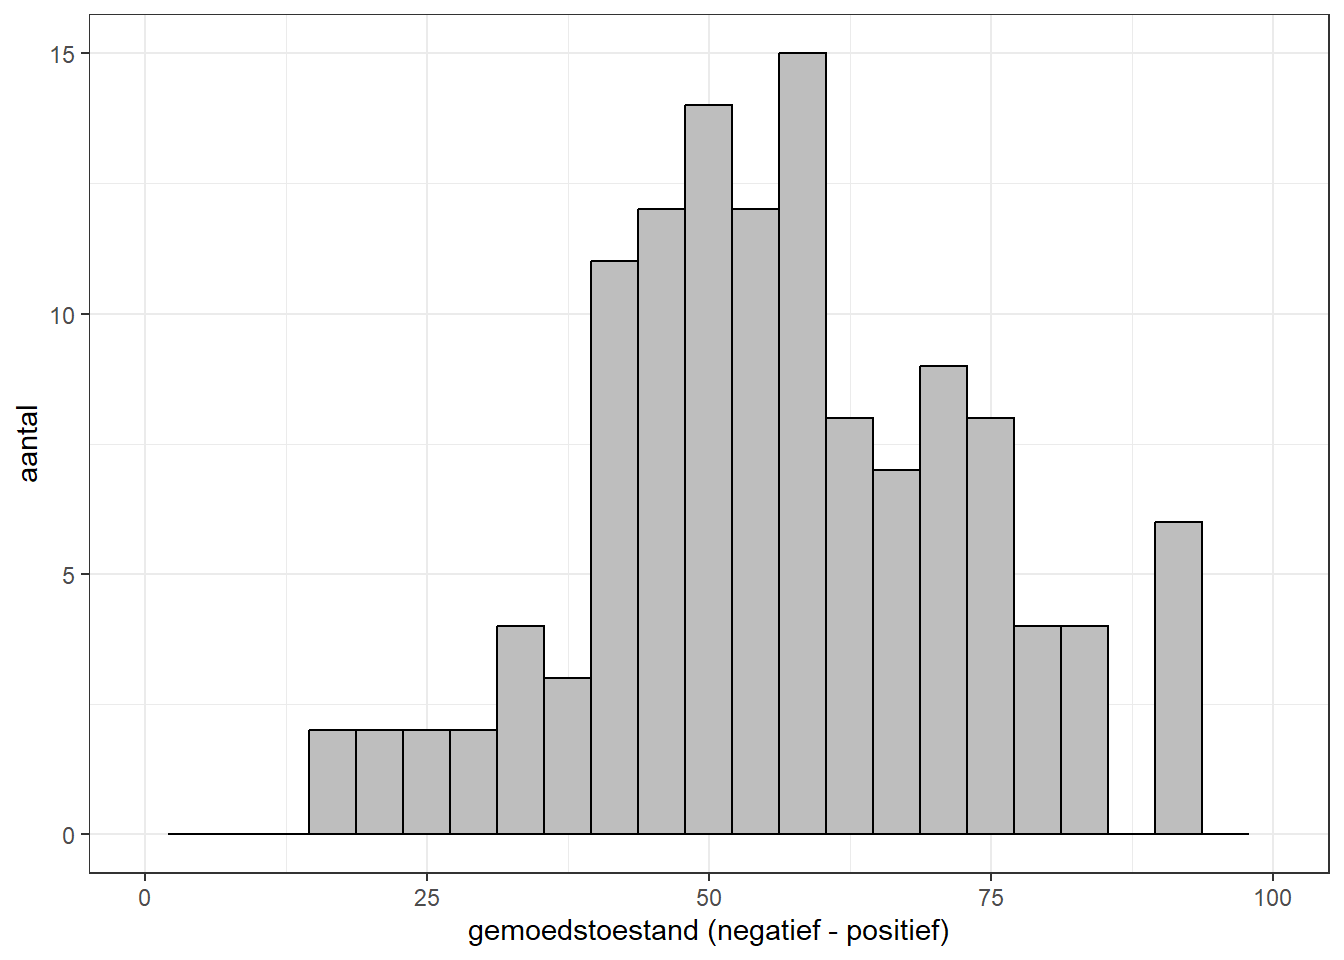
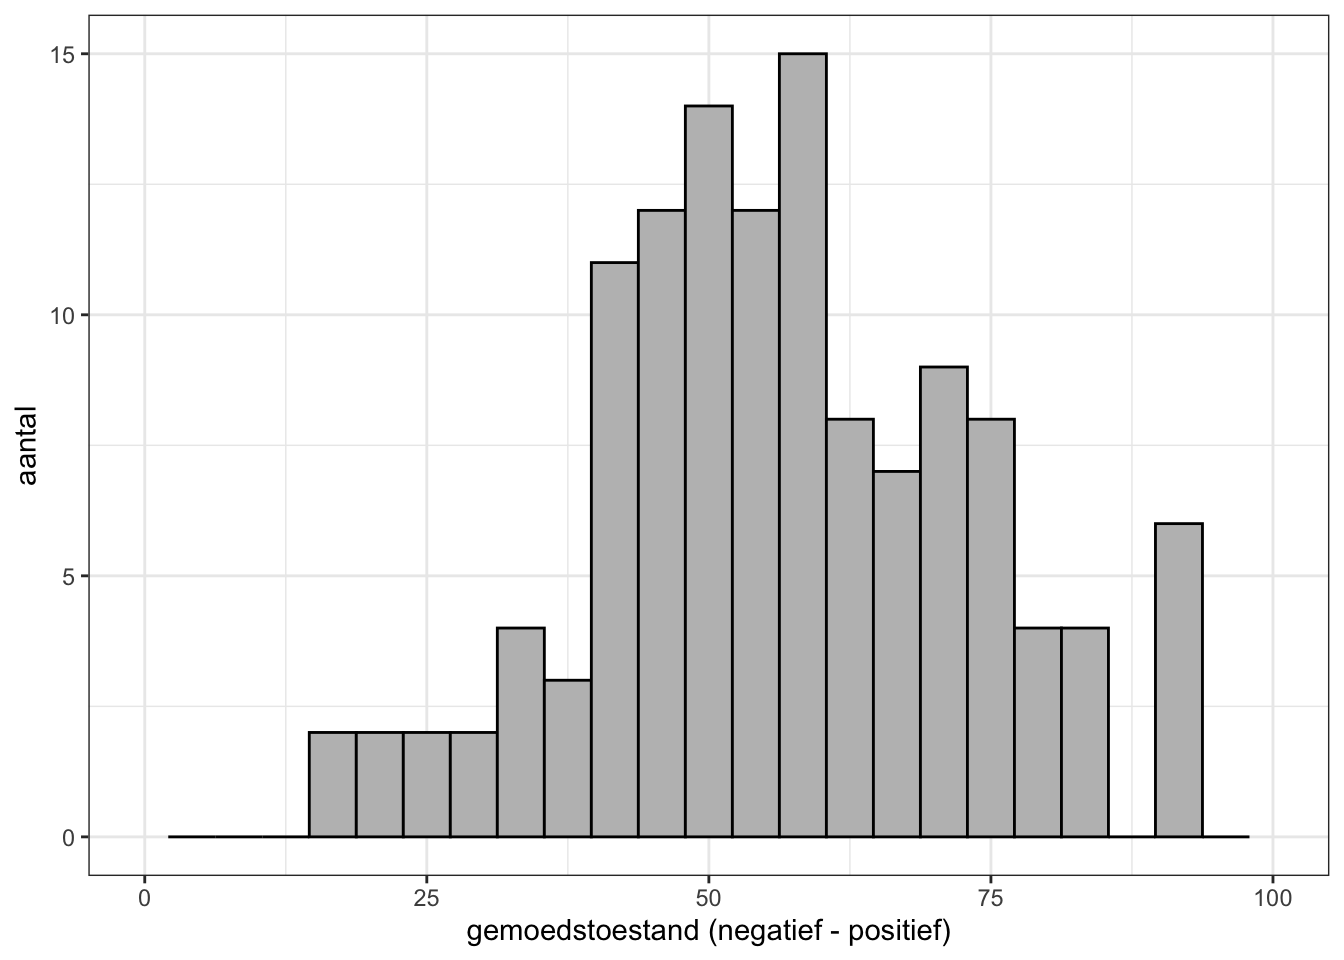
update centrum en spreiding

diff --git a/docs/002-03-centrum-en-spreidingsmaten.html b/docs/002-03-centrum-en-spreidingsmaten.html
@@ -84,9 +84,9 @@ pre > code.sourceCode > span > a:first-child::before { text-decoration: underlin
 <link href="site_libs/quarto-html/quarto-syntax-highlighting-64a204ab8560d761af7679ceaba22944.css" rel="stylesheet" class="quarto-color-scheme-extra" id="quarto-text-highlighting-styles">
 <script src="site_libs/bootstrap/bootstrap.min.js"></script>
 <link href="site_libs/bootstrap/bootstrap-icons.css" rel="stylesheet">
-<link href="site_libs/bootstrap/bootstrap-5ab6d3a42f965672fa09f0ec9e60cd37.min.css" rel="stylesheet" append-hash="true" class="quarto-color-scheme" id="quarto-bootstrap" data-mode="light">
-<link href="site_libs/bootstrap/bootstrap-dark-4d5af44521e8d2ac69805030d7e05dc7.min.css" rel="stylesheet" append-hash="true" class="quarto-color-scheme quarto-color-alternate" id="quarto-bootstrap" data-mode="dark">
-<link href="site_libs/bootstrap/bootstrap-5ab6d3a42f965672fa09f0ec9e60cd37.min.css" rel="stylesheet" append-hash="true" class="quarto-color-scheme-extra" id="quarto-bootstrap" data-mode="light">
+<link href="site_libs/bootstrap/bootstrap-deb916046d57902448ef8317134ba92a.min.css" rel="stylesheet" append-hash="true" class="quarto-color-scheme" id="quarto-bootstrap" data-mode="light">
+<link href="site_libs/bootstrap/bootstrap-dark-34cfa9cfa9935202557e813e66c18837.min.css" rel="stylesheet" append-hash="true" class="quarto-color-scheme quarto-color-alternate" id="quarto-bootstrap" data-mode="dark">
+<link href="site_libs/bootstrap/bootstrap-deb916046d57902448ef8317134ba92a.min.css" rel="stylesheet" append-hash="true" class="quarto-color-scheme-extra" id="quarto-bootstrap" data-mode="light">
 <script id="quarto-search-options" type="application/json">{
   "location": "sidebar",
   "copy-button": false,
@@ -633,10 +633,10 @@ window.Quarto = {
 </div>
 </section>
 </section>
-<section id="spreidingsmaten" class="level2" data-number="6.2">
+<section id="spreidingsmaten" class="level2 page-columns page-full" data-number="6.2">
 <h2 data-number="6.2" class="anchored" data-anchor-id="spreidingsmaten"><span class="header-section-number">6.2</span> Spreidingsmaten</h2>
-<p>Tekst toevoegen over belang spreiding =&gt; Joost</p>
-<section id="bereik-minimum-en-maximum" class="level3" data-number="6.2.1">
+<p>Zoals eerder aangegeven, draait statistiek voor een belangrijk deel om de analyse van variatie. We hebben een groep respondenten die over allerlei kenmerken beschikken. We kunnen tellen welke kenmerken het meest voorkomen, of wat het gemiddelde op een bepaald kenmerk is. Maar vaak zijn we als sociale wetenschappers niet zozeer geinteresseerd in dingen die algemeen zijn, maar juist in zaken die varieren. Welke groepen gebruiken welke vormen van drugs? Welke groepen gebruiken juist geen drugs? Het idee is dat variatie, bijvoorbeeld door het maken van vergelijkingen, ons iets kan leren over hoe de sociale werkelijkheid in elkaar zit.<a href="#fn1" class="footnote-ref" id="fnref1" role="doc-noteref"><sup>1</sup></a> Dat geeft ons bijvoorbeeld inzicht in welke theorie bruikbaar is om een bepaald fenomeen beter te begrijpen c.q. verklaren of om beleid te ontwikkelen dat specifiek gericht is op een bepaalde doelgroep.</p>
+<div class="no-row-height column-margin column-container"><div id="fn1"><p><sup>1</sup>&nbsp;Sterker nog, onze methodes verklaren variat(n)ie met varia(n)tie. Als er geen variatie in een bepaald kenmerk is, kan het kenmerk ook niet als verklaring verschijnen. Of stel dat onze dataset alleen variatie meet op het niveau van individuen, dan gaan onze verklaringen ook te maken met individuele aspecten. Zie bijvoorbeeld het boek van <a href="https://press.uchicago.edu/ucp/books/book/chicago/T/bo28394847.html">John Levi Martin</a>.</p></div></div><section id="bereik-minimum-en-maximum" class="level3" data-number="6.2.1">
 <h3 data-number="6.2.1" class="anchored" data-anchor-id="bereik-minimum-en-maximum"><span class="header-section-number">6.2.1</span> Bereik, minimum en maximum</h3>
 <p>Het bereik <span class="math inline">\(R\)</span> van een variabele is de afstand tussen de laagste (minimum: <span class="math inline">\(x_{min}\)</span>) en hoogste (maximum: <span class="math inline">\(x_{max}\)</span>) waarde. Dit bereken je eenvoudig door de hoogste waarde minus de laagste waarde te nemen:</p>
 <p><span class="math display">\[R=x_{max}-x_{min}\]</span></p>
@@ -944,10 +944,10 @@ s=\sqrt\frac{\sum_{i=1}^{n}{(x_i-\bar{x})^2}}{n-1}
 <pre><code>[1] -2.021429</code></pre>
 </div>
 </div>
-<p>De persoon met score 30 bevindt dus ongeveer 2 standaarddeviaties onder het gemiddelde. Zoals de normale verdeling laat zien, is dit een vrij extreme score (slechts 2,2% van de waardes ligt nog onder 2 standaarddeviaties).<a href="#fn1" class="footnote-ref" id="fnref1" role="doc-noteref"><sup>1</sup></a> Deze partyprins of -prinses voelt zich dus niet zo lekker vergeleken met de rest op de dinsdag na een wild weekend!</p>
+<p>De persoon met score 30 bevindt dus ongeveer 2 standaarddeviaties onder het gemiddelde. Zoals de normale verdeling laat zien, is dit een vrij extreme score (slechts 2,2% van de waardes ligt nog onder 2 standaarddeviaties).<a href="#fn2" class="footnote-ref" id="fnref2" role="doc-noteref"><sup>2</sup></a> Deze partyprins of -prinses voelt zich dus niet zo lekker vergeleken met de rest op de dinsdag na een wild weekend!</p>
 
 
-<div class="no-row-height column-margin column-container"><div id="fn1"><p><sup>1</sup>&nbsp;Vergelijk dit ook visueel met de verdeling van gemoed_dinsdag_na_xtc bij <a href="./002-02-meetniveaus-visualisaties.html#sec-histogram">Histogram</a>. Waar ligt score 30 t.o.v. de rest van de verdeling?</p></div></div></section>
+<div class="no-row-height column-margin column-container"><div id="fn2"><p><sup>2</sup>&nbsp;Vergelijk dit ook visueel met de verdeling van gemoed_dinsdag_na_xtc bij <a href="./002-02-meetniveaus-visualisaties.html#sec-histogram">Histogram</a>. Waar ligt score 30 t.o.v. de rest van de verdeling?</p></div></div></section>
 
 
 </main> <!-- /main -->

diff --git a/docs/004-03-afhankelijkegroepen.html b/docs/004-03-afhankelijkegroepen.html
@@ -84,9 +84,9 @@ pre > code.sourceCode > span > a:first-child::before { text-decoration: underlin
 <link href="site_libs/quarto-html/quarto-syntax-highlighting-64a204ab8560d761af7679ceaba22944.css" rel="stylesheet" class="quarto-color-scheme-extra" id="quarto-text-highlighting-styles">
 <script src="site_libs/bootstrap/bootstrap.min.js"></script>
 <link href="site_libs/bootstrap/bootstrap-icons.css" rel="stylesheet">
-<link href="site_libs/bootstrap/bootstrap-5ab6d3a42f965672fa09f0ec9e60cd37.min.css" rel="stylesheet" append-hash="true" class="quarto-color-scheme" id="quarto-bootstrap" data-mode="light">
-<link href="site_libs/bootstrap/bootstrap-dark-4d5af44521e8d2ac69805030d7e05dc7.min.css" rel="stylesheet" append-hash="true" class="quarto-color-scheme quarto-color-alternate" id="quarto-bootstrap" data-mode="dark">
-<link href="site_libs/bootstrap/bootstrap-5ab6d3a42f965672fa09f0ec9e60cd37.min.css" rel="stylesheet" append-hash="true" class="quarto-color-scheme-extra" id="quarto-bootstrap" data-mode="light">
+<link href="site_libs/bootstrap/bootstrap-deb916046d57902448ef8317134ba92a.min.css" rel="stylesheet" append-hash="true" class="quarto-color-scheme" id="quarto-bootstrap" data-mode="light">
+<link href="site_libs/bootstrap/bootstrap-dark-34cfa9cfa9935202557e813e66c18837.min.css" rel="stylesheet" append-hash="true" class="quarto-color-scheme quarto-color-alternate" id="quarto-bootstrap" data-mode="dark">
+<link href="site_libs/bootstrap/bootstrap-deb916046d57902448ef8317134ba92a.min.css" rel="stylesheet" append-hash="true" class="quarto-color-scheme-extra" id="quarto-bootstrap" data-mode="light">
 <script id="quarto-search-options" type="application/json">{
   "location": "sidebar",
   "copy-button": false,
